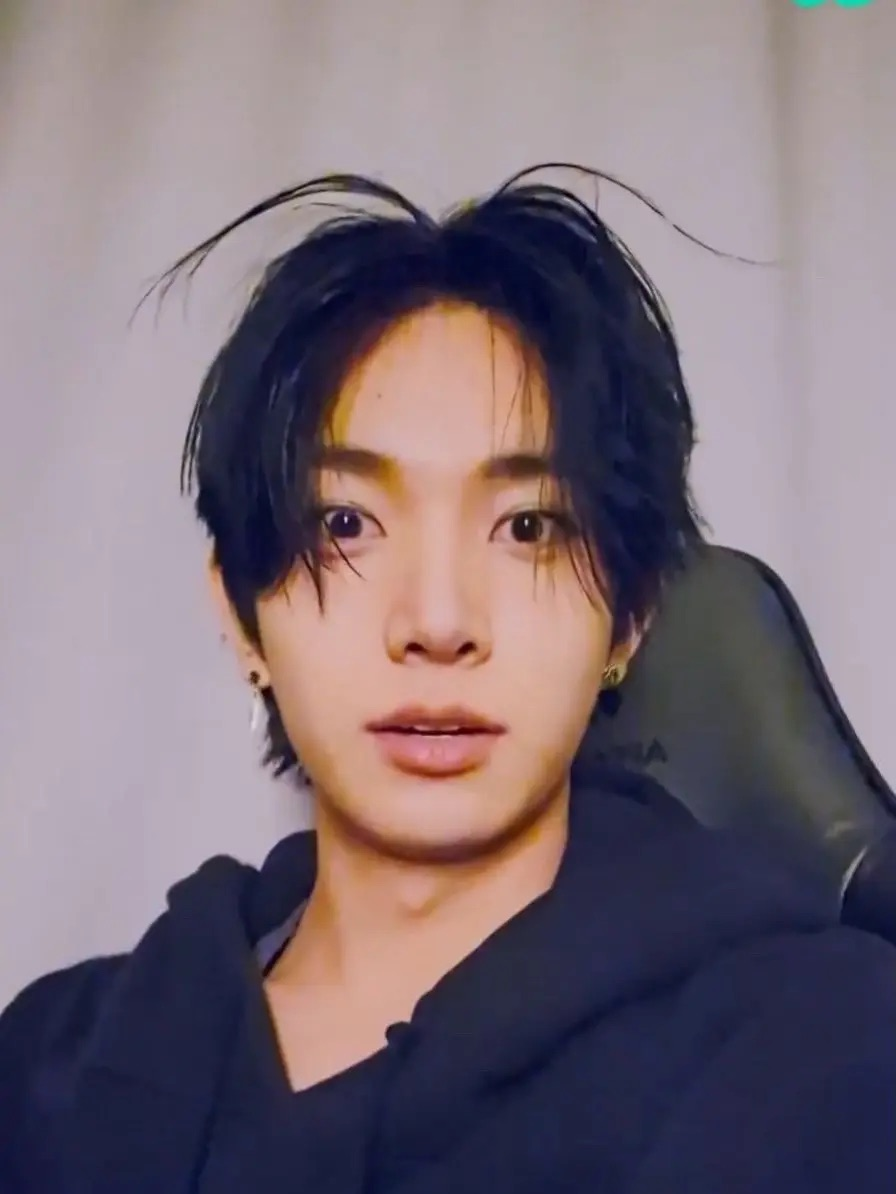
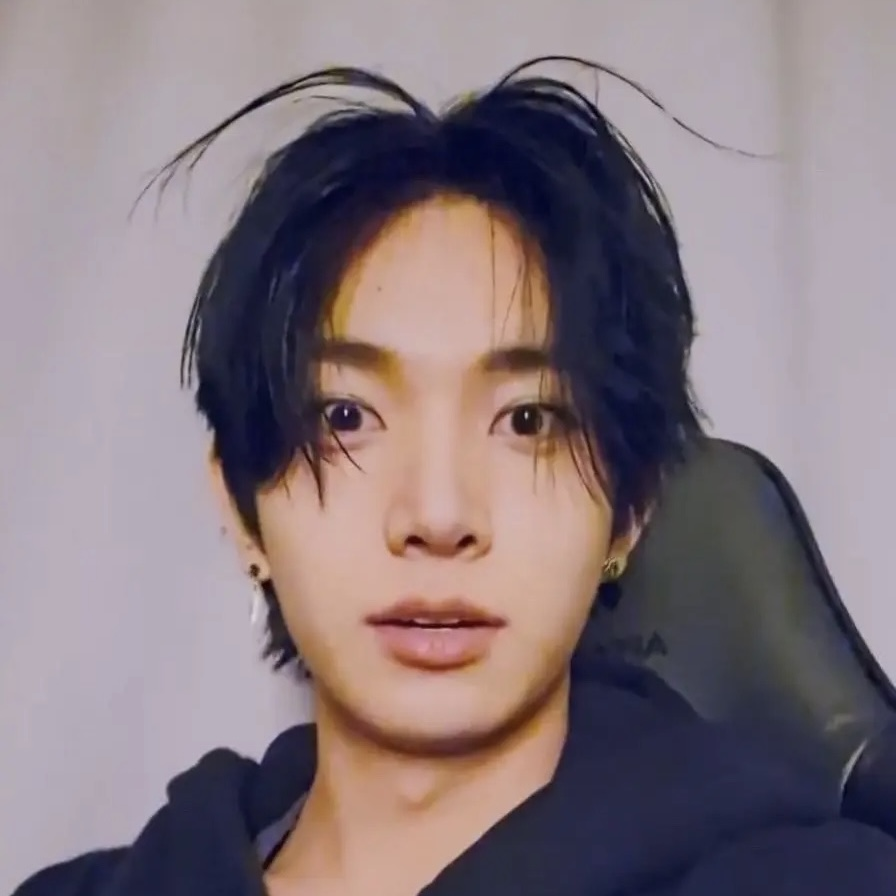
add photos

diff --git a/index.html b/index.html
@@ -4,7 +4,7 @@
   <meta charset="utf-8">
   <meta name="viewport" content="width=device-width, initial-scale=1">
   <meta name="theme-color" content="#dce7ee">
-  <title>领取小猪🐽</title>
+  <title>领取猪猪承🐽</title>
   <link rel="stylesheet" href="styles.css">
   <script src="library.js" defer></script>
   <script src="sound.js" defer></script>
@@ -13,7 +13,7 @@
 <body>
   <main class="lottery">
     <div class="lottery-heading">
-      <div class="heading-copy"><h1>领取小猪🐽</h1></div>
+      <div class="heading-copy"><h1>领取猪猪承🐽</h1></div>
       <button class="sound-toggle is-muted" id="soundToggle" type="button" aria-pressed="false" aria-label="开启音效" title="开启音效">
         <svg viewBox="0 0 24 24" fill="none" stroke="currentColor" stroke-width="1.5" stroke-linecap="round" stroke-linejoin="round" aria-hidden="true"><path d="M4 9h4l5-4v14l-5-4H4z"/><path class="sound-waves" d="M16 8a6 6 0 0 1 0 8m3-11a10 10 0 0 1 0 14"/><path class="sound-cross" d="m17 9 5 6m0-6-5 6"/></svg>
       </button>
@@ -36,10 +36,10 @@
     </div>
     <button class="draw-button" id="drawButton" type="button" disabled>
       <span aria-hidden="true">🐽</span>
-      <span id="drawButtonText">领取小猪</span>
+      <span id="drawButtonText">领取猪猪承</span>
       <span aria-hidden="true">↗</span>
     </button>
-    <p class="sr-only" id="drawStatus" role="status" aria-live="polite">小猪准备中</p>
+    <p class="sr-only" id="drawStatus" role="status" aria-live="polite">猪猪承准备中</p>
   </main>
 </body>
 </html>

diff --git a/app.js b/app.js
@@ -16,7 +16,7 @@
     $("#drawImage").removeAttribute("src");
     $("#result").hidden = true;
     $("#readyCard").hidden = false;
-    $("#drawButtonText").textContent = "领取一只小猪";
+    $("#drawButtonText").textContent = "领取一只猪猪承";
     $("#drawButton").disabled = false;
     announce("ready");
   }
@@ -63,7 +63,7 @@
     state.busy = true;
     PIG_SOUND.play();
     $("#drawButton").disabled = true;
-    $("#drawButtonText").textContent = "小猪准备中";
+    $("#drawButtonText").textContent = "猪猪承准备中";
     $("#drawSurface").classList.add("is-drawing");
     $("#drawSurface").setAttribute("aria-busy", "true");
     announce("正在挑选一只小猪");
@@ -86,14 +86,14 @@
       $("#result").hidden = false;
       state.currentId = item.id;
       seen.add(item.id);
-      announce("小猪准备中");
+      announce("猪猪承准备中");
     } catch {
       seen.add(item.id);
       announce("小猪丢失TT", true);
     } finally {
       state.busy = false;
       $("#drawButton").disabled = false;
-      $("#drawButtonText").textContent = state.currentId ? "再领一只" : "领取一只";
+      $("#drawButtonText").textContent = state.currentId ? "再领一只" : "领取一只猪猪承";
       $("#drawSurface").classList.remove("is-drawing");
       $("#drawSurface").setAttribute("aria-busy", "false");
     }
